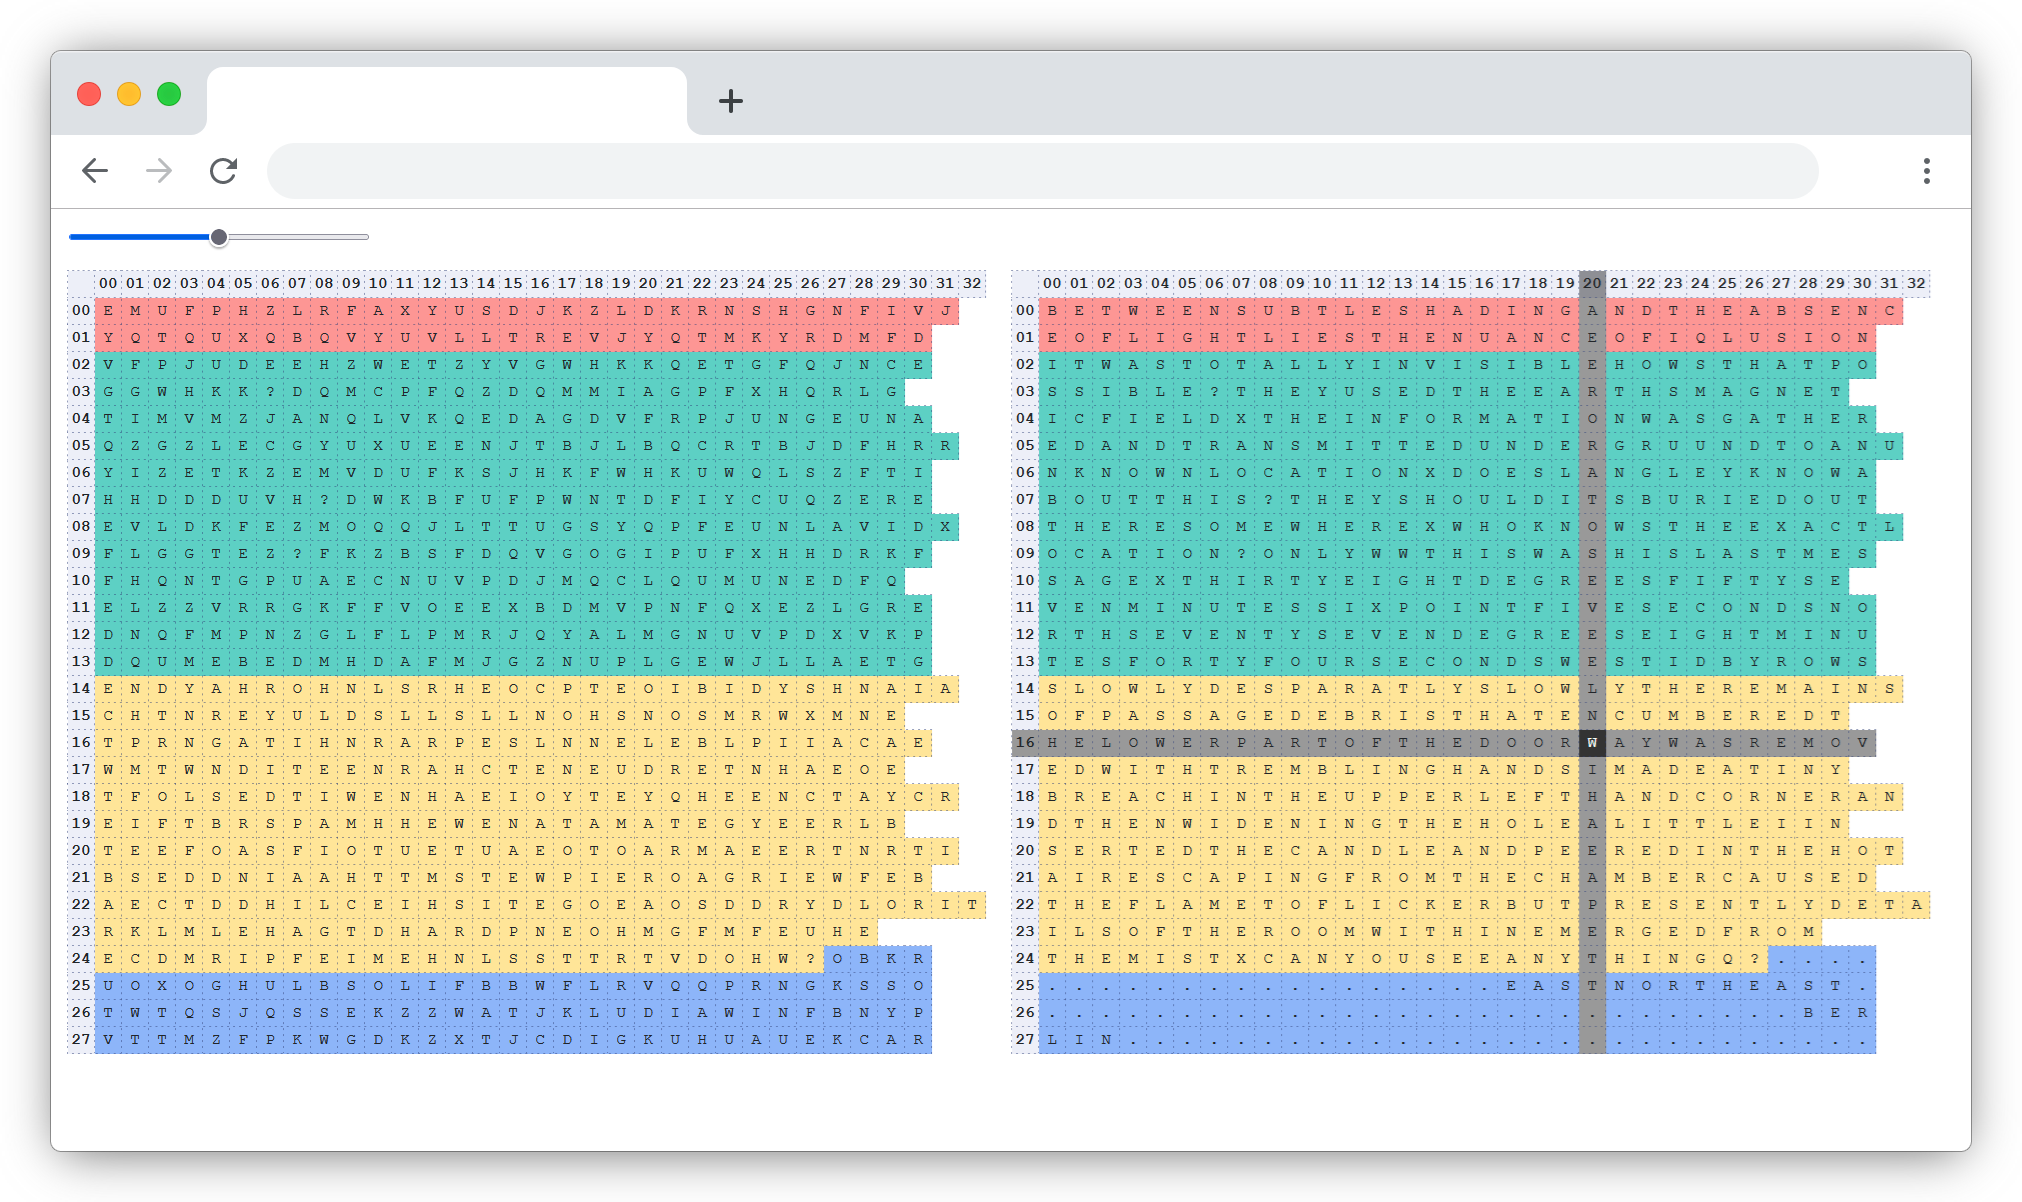
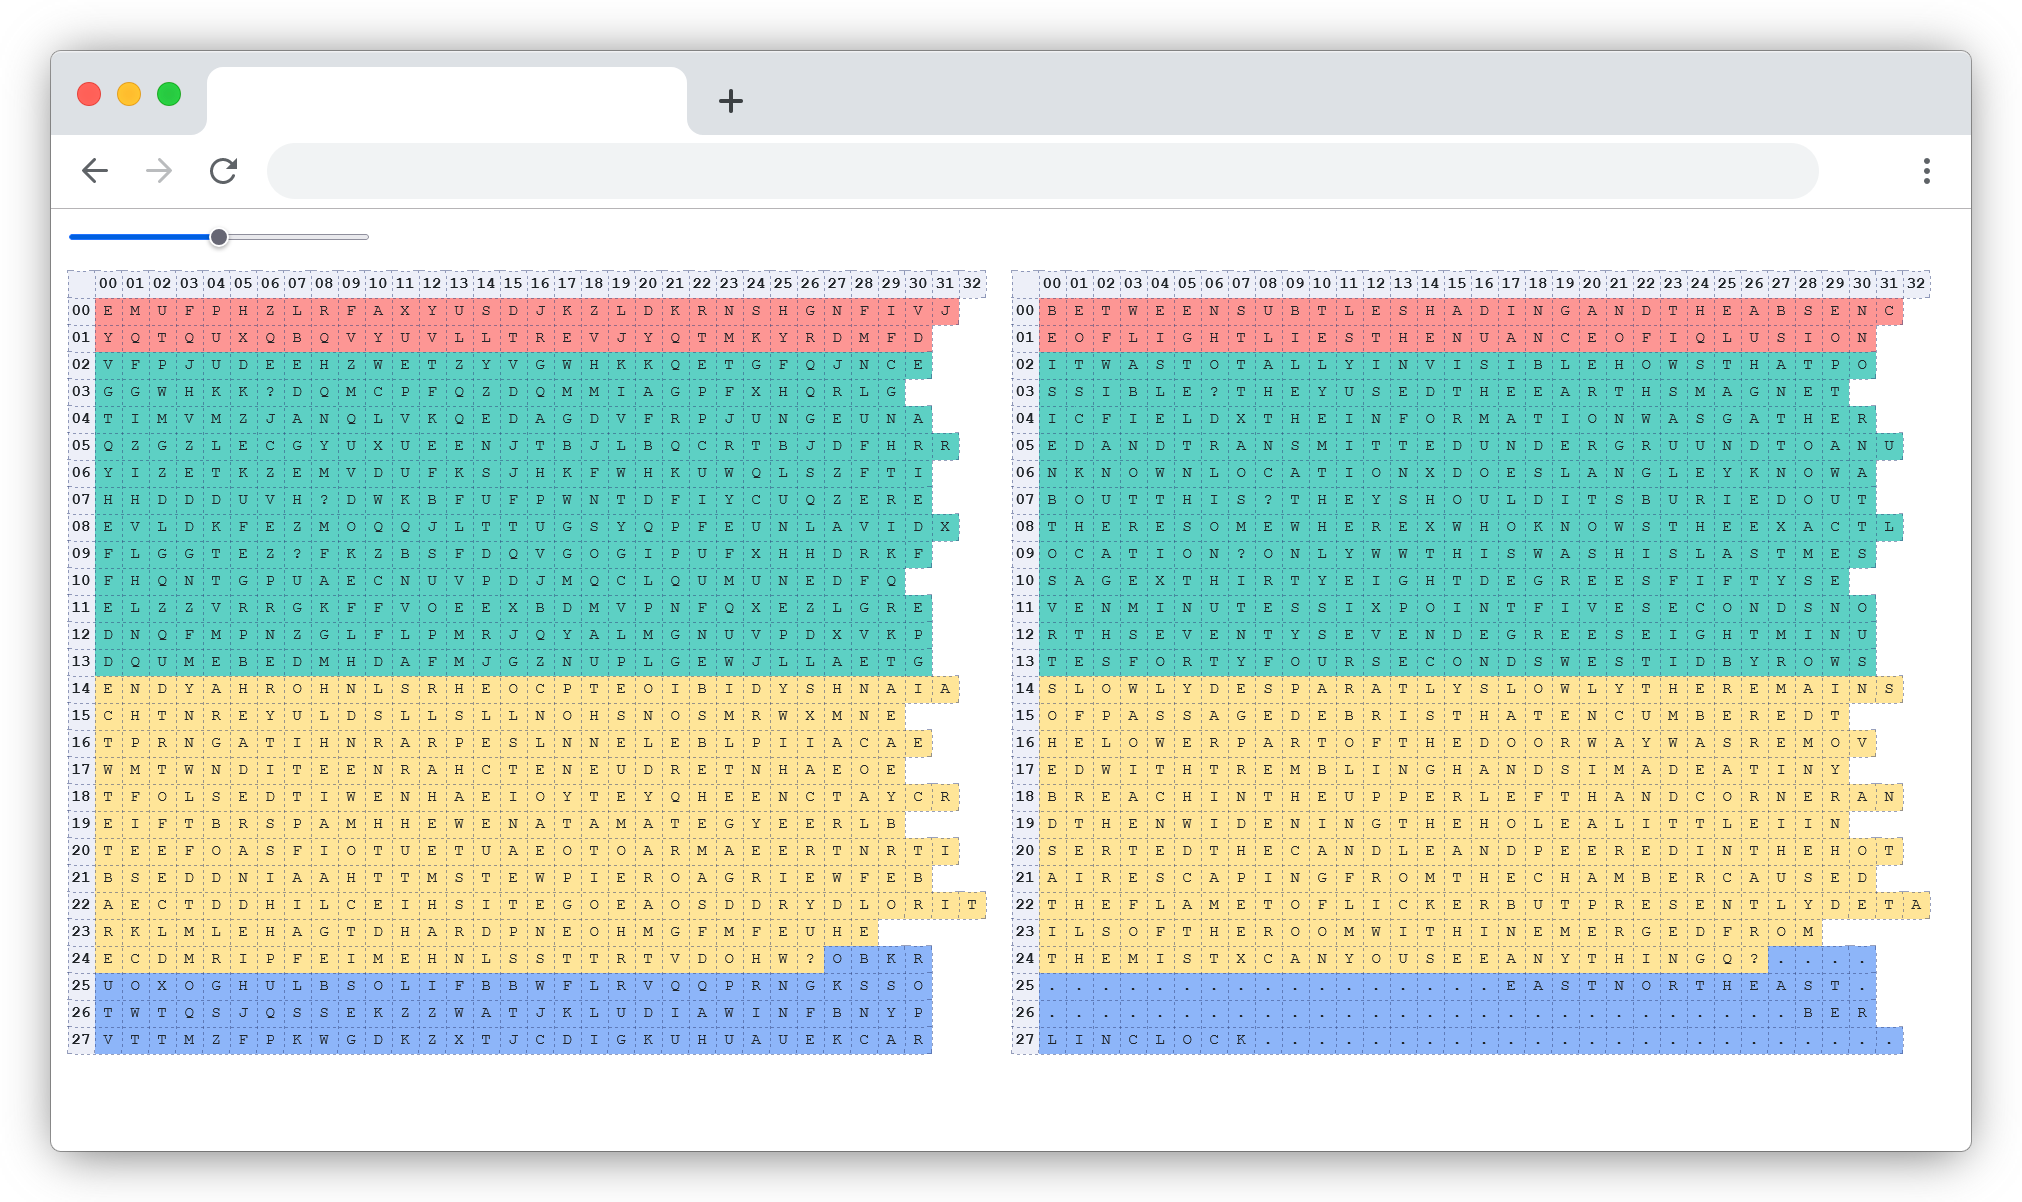
Updated images and added one more clue 'CLOCK'

Changed region(s): [[0.4985, 0.2155, 0.9659, 0.8927], [0.0312, 0.2155, 0.4674, 0.8619]]

diff --git a/decoded.html b/decoded.html
@@ -275,7 +275,7 @@
                 'THEMISTXCANYOUSEEANYTHINGQ?....',
                 '.................EASTNORTHEAST.',
                 '............................BER',
-                'LIN............................'
+                'LINCLOCK........................'
             ];
 
             makeGrid(grid, table, (cell, index, position) => {

diff --git a/README.md b/README.md
@@ -13,6 +13,30 @@ Kryptos is a sculpture by the American artist Jim Sanborn located on the grounds
 ## K1-K4
 The Kryptos sculpture is devided into four different segments with names, K1, K2, K3, and K4. The tree first segments have been solved, but the segment (K4) is still unsolved (2025-12-29).
 
+## K4
+The K4 cipher is a 97-character-long text. Clues to K4 have been given by the creator of the sculpture. Entering the clues into the cipher gives the following results, where '.' represents the target for solving and '-' represents the part of the solved K3.
+- EAST
+- NORTHEAST
+- BERLIN
+- CLOCK
+
+```
+A: ---------------------------OBKR
+B: ---------------------------....
+```
+```
+A: UOXOGHULBSOLIFBBWFLRVQQPRNGKSSO
+B: .................EASTNORTHEAST.
+```
+```
+A: TWTQSJQSSEKZZWATJKLUDIAWINFBNYP
+B: ............................BER
+```
+```
+A: VTTMZFPKWGDKZXTJCDIGKUHUAUEKCAR
+B: LINCLOCK.......................
+```
+
 ## Indept Information
 There is a lot of information online about the artwork and the work that has been devoted to understanding and solving its mysterious puzzles. 
 
